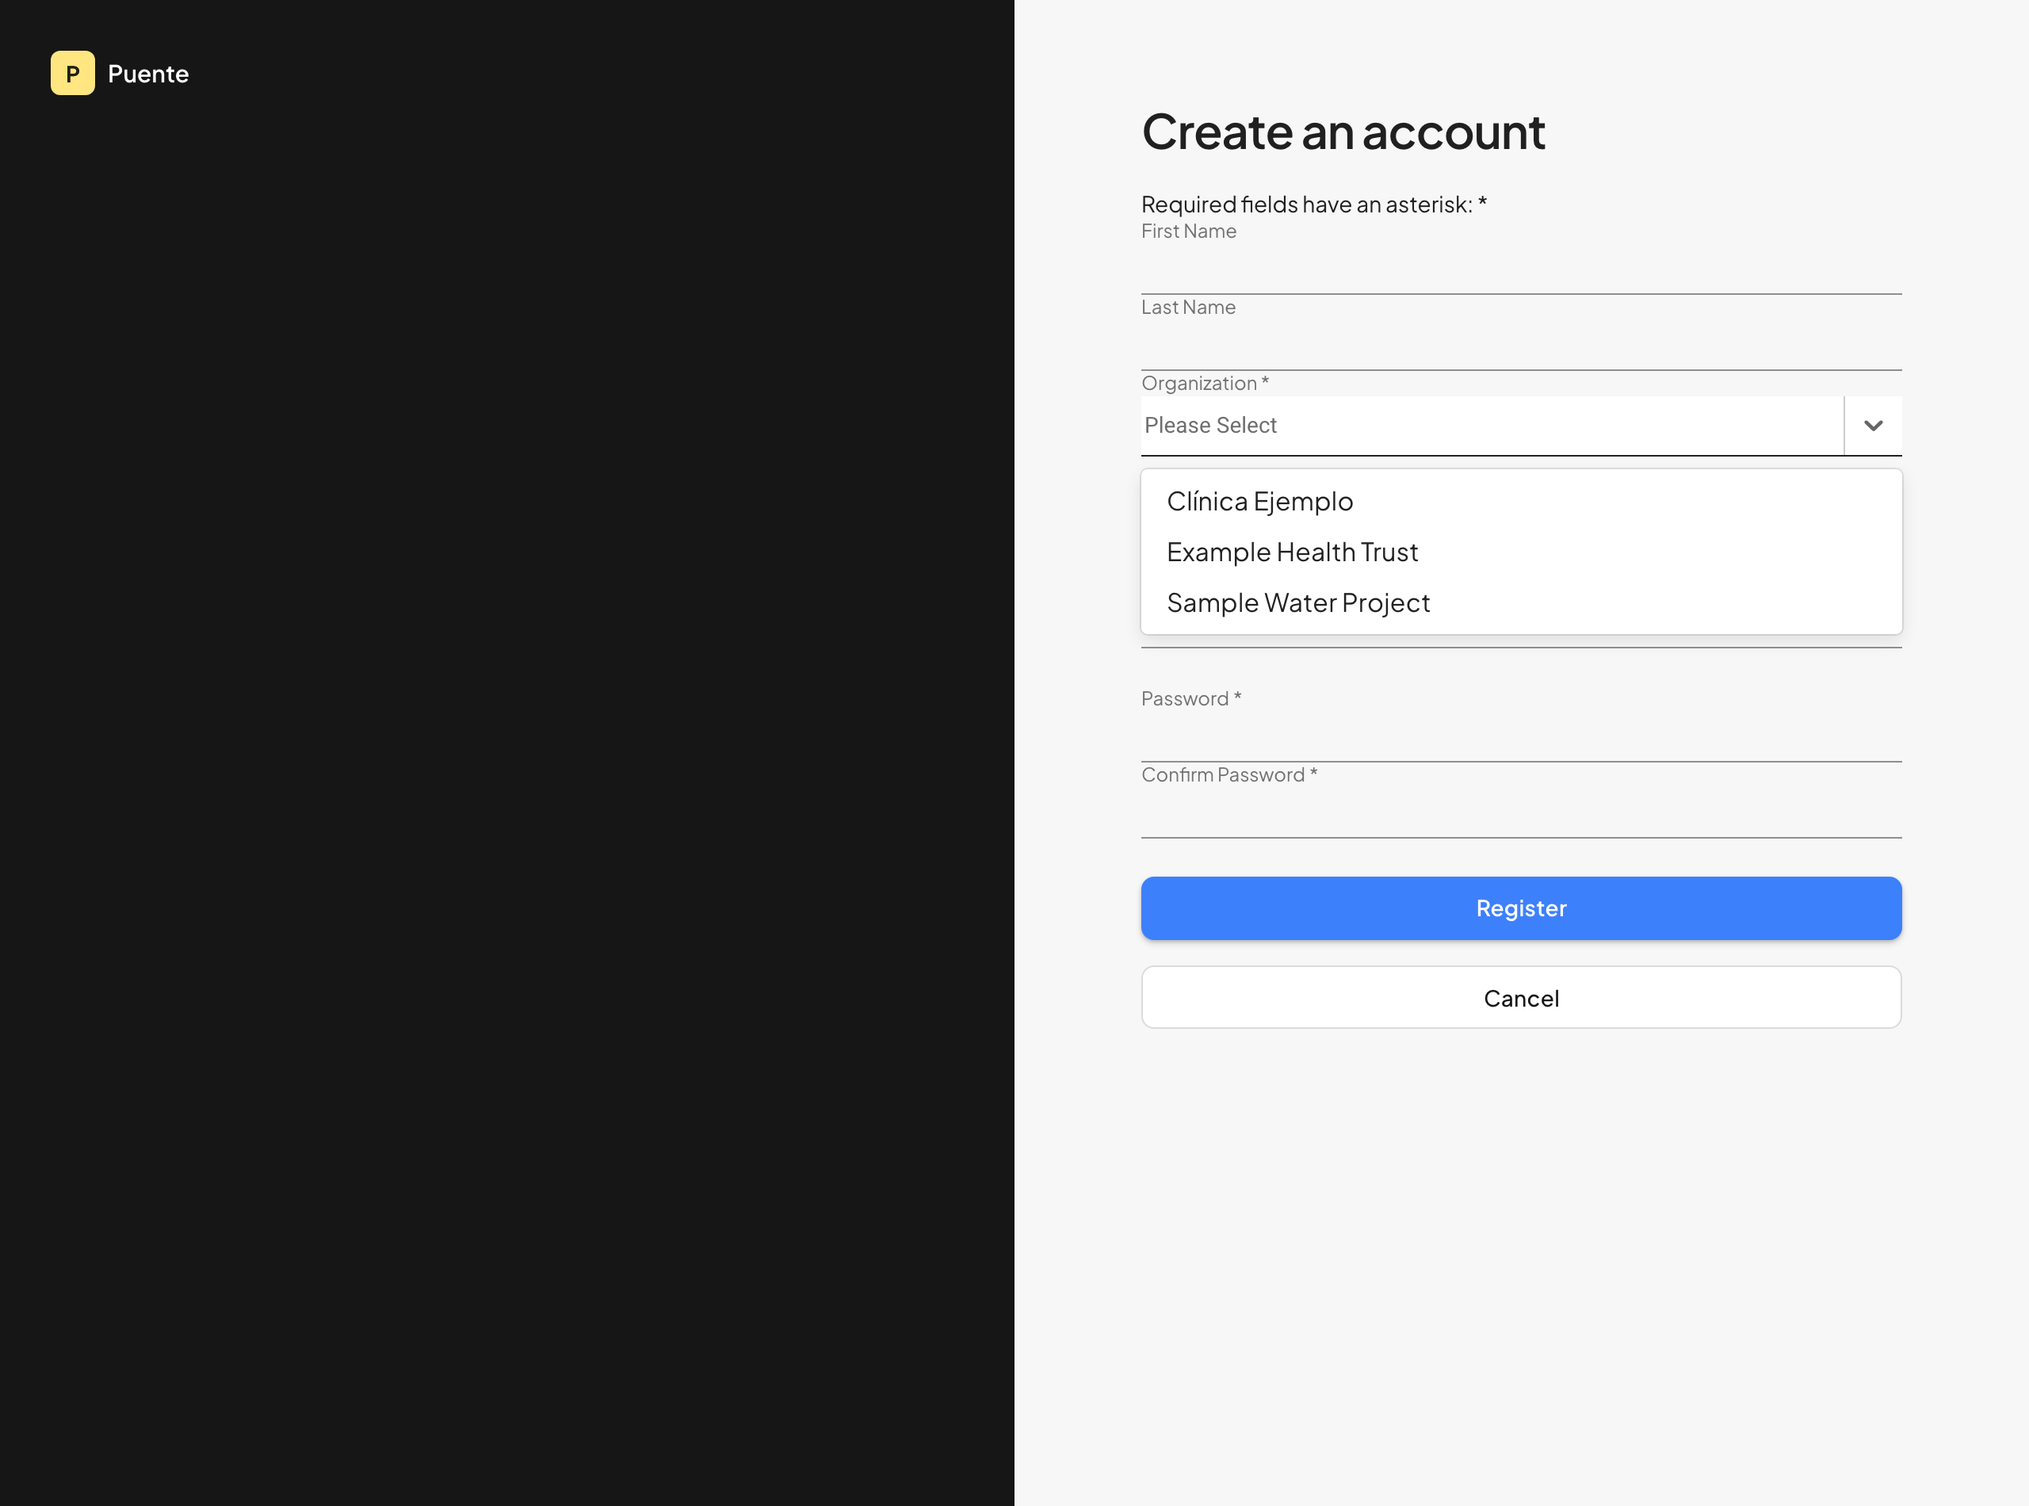
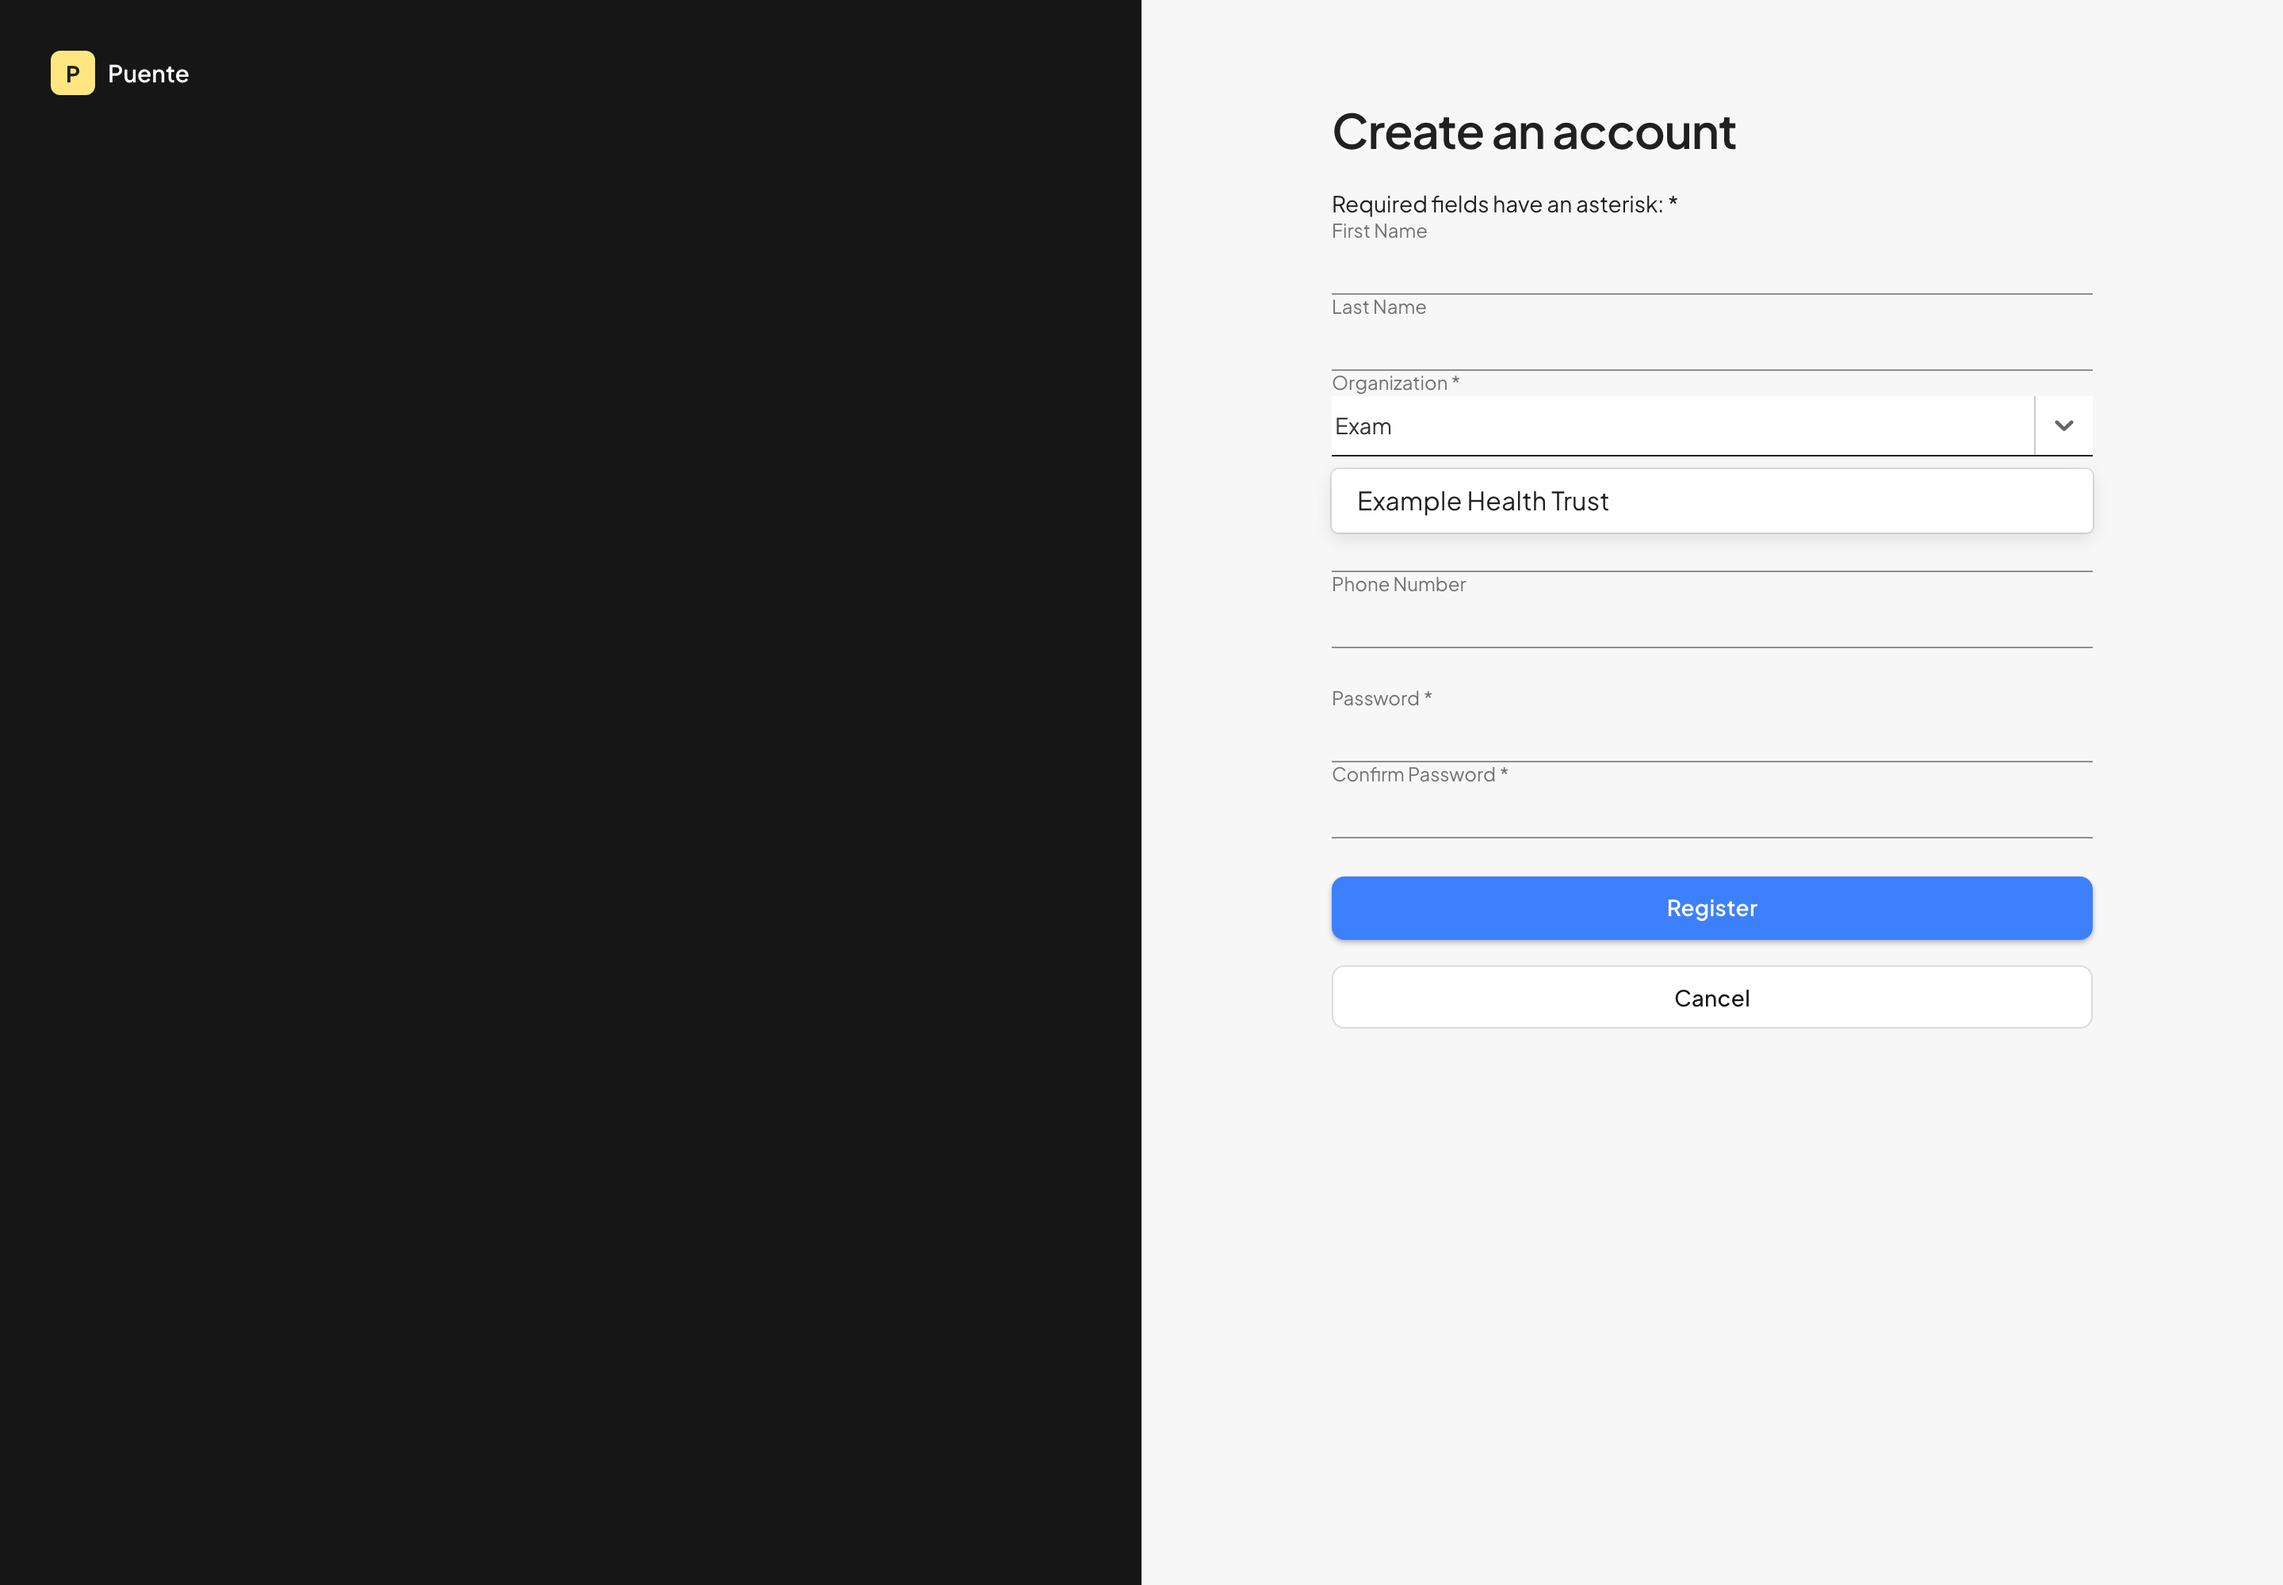
The fifth guide is bilingual too — every guide now is
how-to-create-and-manage-orgs was the last one showing an English app on its
Spanish page. All nine of its images now exist in both languages: the six web
screens from e2e/capture-org-docs.mjs, which walks /  and /spa, and the three
phone screens from a new .maestro/capture-org-signup-docs.yaml.

Five of those nine had no capture script at all — they were reproducible only
by hand. They are now scripted, which is the part that keeps them true.

WHAT IS IN THE PICTURES

The signup picker queries REAL organizations, so the search term decides what
gets published. "Pu" matches exactly one on staging — "Puente", our own —
verified before capturing. Every organization in the web screens is invented.

The three README claims that this guide was the English-only holdout are
corrected rather than left to rot.

Changed region(s): [[0.5625, 0.1863, 0.9375, 0.6832], [0.5625, 0.0621, 0.75, 0.1553], [0.0, 0.0311, 0.0938, 0.0621]]

diff --git a/guides/how-to-create-and-manage-orgs/index.html b/guides/how-to-create-and-manage-orgs/index.html
@@ -246,6 +246,8 @@
     <div class="phones">
       <figure>
         <img src="assets/img/collect-01-signup-organization-empty.png"
+             data-src-en="assets/img/collect-01-signup-organization-empty.png"
+             data-src-es="assets/img/es/collect-01-signup-organization-empty.png"
              data-alt-en="The Collect sign-up form on a phone, with the organization field empty."
              data-alt-es="El formulario de registro de Collect en un teléfono, con el campo de organización vacío."
              alt="The Collect sign-up form on a phone, with the organization field empty.">
@@ -253,6 +255,8 @@
       </figure>
       <figure>
         <img src="assets/img/collect-02-signup-organization-suggestions.png"
+             data-src-en="assets/img/collect-02-signup-organization-suggestions.png"
+             data-src-es="assets/img/es/collect-02-signup-organization-suggestions.png"
              data-alt-en="Typing two letters into the organization field brings up a matching suggestion below it."
              data-alt-es="Al escribir dos letras en el campo de organización aparece una sugerencia debajo."
              alt="Typing two letters into the organization field brings up a matching suggestion below it.">
@@ -260,6 +264,8 @@
       </figure>
       <figure>
         <img src="assets/img/collect-03-signup-organization-selected.png"
+             data-src-en="assets/img/collect-03-signup-organization-selected.png"
+             data-src-es="assets/img/es/collect-03-signup-organization-selected.png"
              data-alt-en="An organization has been chosen and now fills the field."
              data-alt-es="Se eligió una organización y ahora llena el campo."
              alt="An organization has been chosen and now fills the field.">
@@ -346,6 +352,8 @@
       no puedes inventar un nombre nuevo.</p>
     <figure>
       <img src="assets/img/register-02-picker-synthetic.png"
+             data-src-en="assets/img/register-02-picker-synthetic.png"
+             data-src-es="assets/img/es/register-02-picker-synthetic.png"
            data-alt-en="The web registration form with the organization dropdown open, showing a list of organizations to choose from."
            data-alt-es="El formulario de registro en la web con la lista de organizaciones abierta, para elegir una."
            alt="The web registration form with the organization dropdown open, showing a list of organizations to choose from.">
@@ -360,6 +368,8 @@
       adivinar:</p>
     <figure>
       <img src="assets/img/register-03-not-listed-synthetic.png"
+             data-src-en="assets/img/register-03-not-listed-synthetic.png"
+             data-src-es="assets/img/es/register-03-not-listed-synthetic.png"
            data-alt-en="The expanded help text shown after selecting the link reading My organization isn't listed."
            data-alt-es="El texto de ayuda que aparece al elegir el enlace My organization isn't listed."
            alt="The expanded help text shown after selecting the link reading My organization isn't listed.">
@@ -424,6 +434,8 @@
       persona se le regresa al tablero.</p>
     <figure class="wide">
       <img src="assets/img/admin-01-organizations-screen.png"
+             data-src-en="assets/img/admin-01-organizations-screen.png"
+             data-src-es="assets/img/es/admin-01-organizations-screen.png"
            data-alt-en="The Organizations screen in Manage, listing organizations with their nicknames, the people in each, a list of accounts that did not match, and a form for creating an organization."
            data-alt-es="La pantalla de Organizaciones en Manage, con las organizaciones y sus apodos, las personas de cada una, una lista de cuentas que no coincidieron y un formulario para crear una organización."
            alt="The Organizations screen in Manage, listing organizations with their nicknames, the people in each, a list of accounts that did not match, and a form for creating an organization.">
@@ -439,6 +451,8 @@
     <h3 lang="es">Cada organización y su gente</h3>
     <figure class="wide">
       <img src="assets/img/admin-03-one-organization.png"
+             data-src-en="assets/img/admin-03-one-organization.png"
+             data-src-es="assets/img/es/admin-03-one-organization.png"
            data-alt-en="One organization's row, showing its official name, its short code, its nicknames, a box for editing spellings, and its members each with buttons to make administrator or deactivate."
            data-alt-es="La fila de una organización, con su nombre oficial, su código corto, sus apodos, un recuadro para editar las formas de escribirlo y sus miembros, cada uno con botones para hacer administrador o desactivar."
            alt="One organization's row, showing its official name, its short code, its nicknames, a box for editing spellings, and its members each with buttons to make administrator or deactivate.">
@@ -484,6 +498,8 @@
       que Puente no pudo emparejar con ninguna organización.</p>
     <figure class="wide">
       <img src="assets/img/admin-04-waiting-room.png"
+             data-src-en="assets/img/admin-04-waiting-room.png"
+             data-src-es="assets/img/es/admin-04-waiting-room.png"
            data-alt-en="Two rows listing the organization name each person typed alongside their email address."
            data-alt-es="Dos filas con el nombre de organización que escribió cada persona, junto a su correo."
            alt="Two rows listing the organization name each person typed alongside their email address.">
@@ -503,6 +519,8 @@
     <h3 lang="es">Crear una organización</h3>
     <figure class="wide">
       <img src="assets/img/admin-05-create-organization.png"
+             data-src-en="assets/img/admin-05-create-organization.png"
+             data-src-es="assets/img/es/admin-05-create-organization.png"
            data-alt-en="A form with fields for organization name, short code and nicknames, and a create button."
            data-alt-es="Un formulario con campos para el nombre de la organización, el código corto y los apodos, y un botón de crear."
            alt="A form with fields for organization name, short code and nicknames, and a create button.">

diff --git a/guides/how-to-create-and-manage-orgs/README.md b/guides/how-to-create-and-manage-orgs/README.md
@@ -55,14 +55,19 @@ Business Source License 1.1 and converts to the Apache License 2.0 on
 
 Questions: info@puente-dr.org
 
-## Known gap: the screenshots are in English
+## The screenshots are in both languages
 
-The other four guides now ship a Spanish image set alongside the English one,
-swapped by the language toggle (`assets/img/` and `assets/img/es/`). This guide
-does not yet: its captures come from `e2e/capture-org-docs.mjs`, which was still
-uncommitted work when the others were converted.
+`assets/img/` is English, `assets/img/es/` is Spanish, and the language toggle
+swaps them along with the text. All nine images, both languages.
 
-The page already carries the swapping code, so it becomes bilingual the moment
-`assets/img/es/` is populated and each `<img>` gains `data-src-en` /
-`data-src-es`. The pattern to copy is `e2e/capture-export-docs.mjs`, which walks
-the same capture twice — once at `/`, once at `/spa`.
+The web screens come from `e2e/capture-org-docs.mjs` in
+`puente-react-nextjs-platform`, which walks the same capture twice — once at
+`/`, once at `/spa` — with every backend answer stubbed. The three phone screens
+come from `.maestro/capture-org-signup-docs.yaml` in `puente-reactnative-collect`,
+run by `.maestro/capture-guide-docs.sh both`.
+
+**The only organization shown in the phone images is "Puente" — our own.** The
+search term is `Pu`, which on staging matches exactly one organization; verified
+against staging (59 organizations) before capturing. Do not broaden it: a
+shorter prefix returns real partner organizations, and these images are
+published. Every organization in the web images is invented.

diff --git a/guides/getting-your-data-out/README.md b/guides/getting-your-data-out/README.md
@@ -73,9 +73,8 @@ swaps them along with the text. The capture script drives the app twice, once
 per locale, in a single run.
 
 This was new as of 2026-09-11, when the four earlier guides all shipped English
-screenshots on their Spanish pages. Three of them have since been recaptured and
-are bilingual too; `how-to-create-and-manage-orgs` is the one still English-only,
-because its capture script was uncommitted work at the time.
+screenshots on their Spanish pages. All of them have since been recaptured, so
+every guide on the site is now bilingual in its pictures as well as its text.
 
 Photographing the Spanish page is also what found two buttons that had never
 been translated — the Spanish Form Manager rendered `Export` and `+ Create

diff --git a/README.md b/README.md
@@ -37,8 +37,8 @@ image referenced is actually present, and that the hand-edited HTML closes. All
 three failures are invisible in a browser until someone hits them — the first
 two only in Spanish.
 
-`how-to-create-and-manage-orgs` is the one guide whose screenshots are still
-English only; its own README says what is needed.
+Every guide is bilingual in its pictures as well as its text. Each guide's own
+README names the capture script that produces its images.
 
 ## Publishing
 
